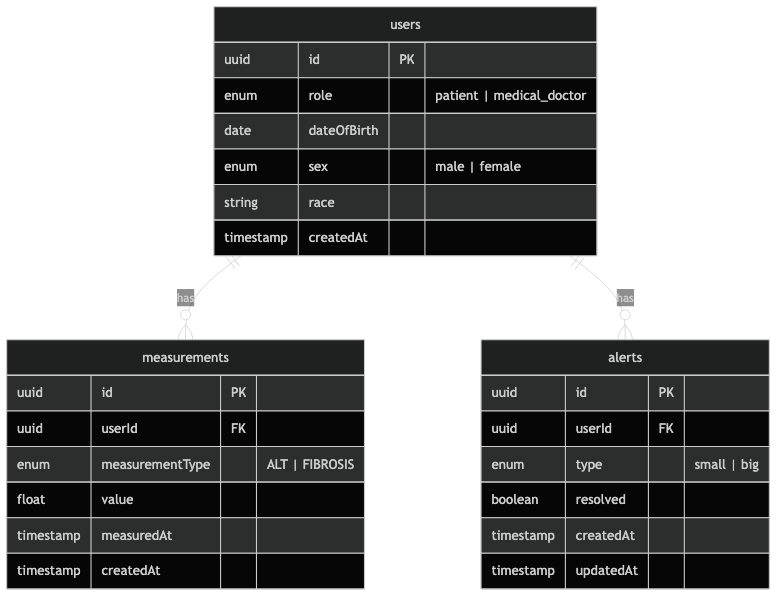
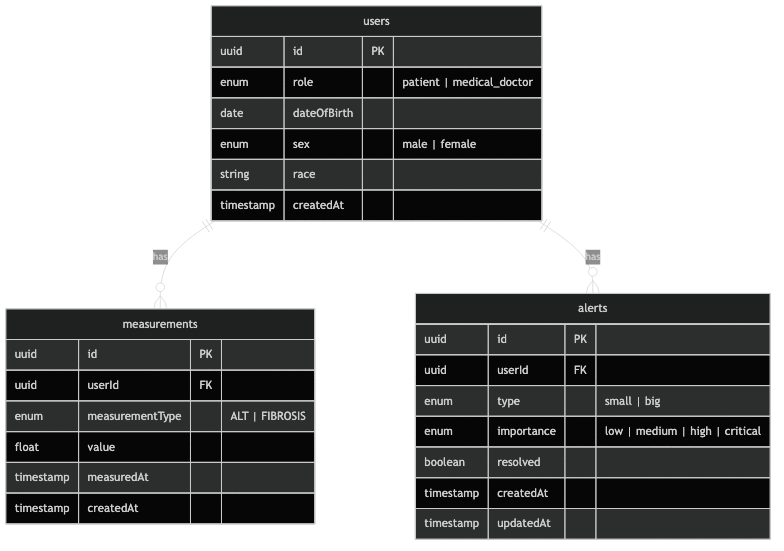
feat: importance level for alerts

diff --git a/src/controllers/AlertController.ts b/src/controllers/AlertController.ts
@@ -1,5 +1,6 @@
 import type { FastifyInstance, FastifyRequest, FastifyReply } from 'fastify'
 import { AlertService } from '../services/AlertService.js'
+import { AlertImportance } from '../domain/Alert.js'
 
 interface GetAlertParams {
   id: string
@@ -11,6 +12,14 @@ interface GetUserAlertsParams {
 
 interface ResolveAlertBody {
   alertId: string
+}
+
+interface SetImportanceParams {
+  id: string
+}
+
+interface SetImportanceBody {
+  importance: AlertImportance
 }
 
 export class AlertController {
@@ -28,9 +37,7 @@ export class AlertController {
         reply: FastifyReply,
       ) => {
         try {
-          const alert = await this.alertService.getAlertById(
-            request.params.id,
-          )
+          const alert = await this.alertService.getAlertById(request.params.id)
           if (!alert) {
             reply.code(404).send({ error: 'Alert not found' })
             return
@@ -66,10 +73,9 @@ export class AlertController {
         reply: FastifyReply,
       ) => {
         try {
-          const alerts =
-            await this.alertService.getUnresolvedAlertsByUserId(
-              request.params.userId,
-            )
+          const alerts = await this.alertService.getUnresolvedAlertsByUserId(
+            request.params.userId,
+          )
           reply.send(alerts)
         } catch (error) {
           reply.code(500).send({ error: (error as Error).message })
@@ -77,14 +83,17 @@ export class AlertController {
       },
     )
 
-    fastify.get('/alerts', async (_request: FastifyRequest, reply: FastifyReply) => {
-      try {
-        const alerts = await this.alertService.getAllAlerts()
-        reply.send(alerts)
-      } catch (error) {
-        reply.code(500).send({ error: (error as Error).message })
-      }
-    })
+    fastify.get(
+      '/alerts',
+      async (_request: FastifyRequest, reply: FastifyReply) => {
+        try {
+          const alerts = await this.alertService.getAllAlerts()
+          reply.send(alerts)
+        } catch (error) {
+          reply.code(500).send({ error: (error as Error).message })
+        }
+      },
+    )
 
     fastify.post(
       '/alerts/resolve',
@@ -103,6 +112,28 @@ export class AlertController {
             return
           }
           reply.send({ success: true, message: 'Alert resolved successfully' })
+        } catch (error) {
+          reply.code(400).send({ error: (error as Error).message })
+        }
+      },
+    )
+
+    fastify.put(
+      '/alerts/:id/importance',
+      async (
+        request: FastifyRequest<{
+          Params: SetImportanceParams
+          Body: SetImportanceBody
+        }>,
+        reply: FastifyReply,
+      ) => {
+        try {
+          const { importance } = request.body
+          const alert = await this.alertService.setAlertImportance(
+            request.params.id,
+            importance,
+          )
+          reply.send(alert)
         } catch (error) {
           reply.code(400).send({ error: (error as Error).message })
         }

diff --git a/src/services/AlertService.ts b/src/services/AlertService.ts
@@ -1,6 +1,6 @@
 import { AlertRepository } from '../repositories/AlertRepository.js'
 import { MeasurementRepository } from '../repositories/MeasurementRepository.js'
-import { Alert, AlertType } from '../domain/Alert.js'
+import { Alert, AlertType, AlertImportance } from '../domain/Alert.js'
 import { User } from '../domain/User.js'
 import { MeasurementType } from '../domain/Measurement.js'
 import { AppDataSource } from '../core/infrastructure/database.js'
@@ -159,6 +159,20 @@ export class AlertService {
     }
 
     return false
+  }
+
+  async setAlertImportance(
+    id: string,
+    importance: AlertImportance,
+  ): Promise<Alert> {
+    const alert = await this.alertRepository.findById(id)
+    if (!alert) {
+      throw new Error(`Alert with id ${id} not found`)
+    }
+
+    const repository = AppDataSource.getRepository(Alert)
+    alert.importance = importance
+    return await repository.save(alert)
   }
 
   async deleteAlert(id: string): Promise<void> {

diff --git a/src/domain/Alert.ts b/src/domain/Alert.ts
@@ -14,6 +14,13 @@ export enum AlertType {
   BIG = 'big',
 }
 
+export enum AlertImportance {
+  LOW = 'low',
+  MEDIUM = 'medium',
+  HIGH = 'high',
+  CRITICAL = 'critical',
+}
+
 export interface AlarmingPair {
   alt: Measurement
   fibrosis: Measurement
@@ -30,6 +37,13 @@ export class Alert {
     enum: AlertType,
   })
   type!: AlertType
+
+  @Column({
+    type: 'enum',
+    enum: AlertImportance,
+    nullable: true,
+  })
+  importance?: AlertImportance
 
   @Column({ default: false })
   resolved!: boolean

diff --git a/README.md b/README.md
@@ -421,12 +421,18 @@ Data access for Alert entities with specialized queries:
 
 - `GET /alerts` - Get all alerts
 - `GET /alerts/:id` - Get a specific alert
-- `GET /users/:userId/alerts` - Get all alerts for a user
-- `GET /users/:userId/alerts/unresolved` - Get unresolved alerts for a user
+- `GET /users/:userId/alerts` - Get all alerts for a user (includes importance level)
+- `GET /users/:userId/alerts/unresolved` - Get unresolved alerts for a user (includes importance level)
 - `POST /alerts/resolve` - Resolve an alert
   ```json
   {
     "alertId": "uuid"
+  }
+  ```
+- `PUT /alerts/:id/importance` - Set the importance level of an alert
+  ```json
+  {
+    "importance": "low" | "medium" | "high" | "critical"
   }
   ```
 - `DELETE /alerts/:id` - Delete an alert
